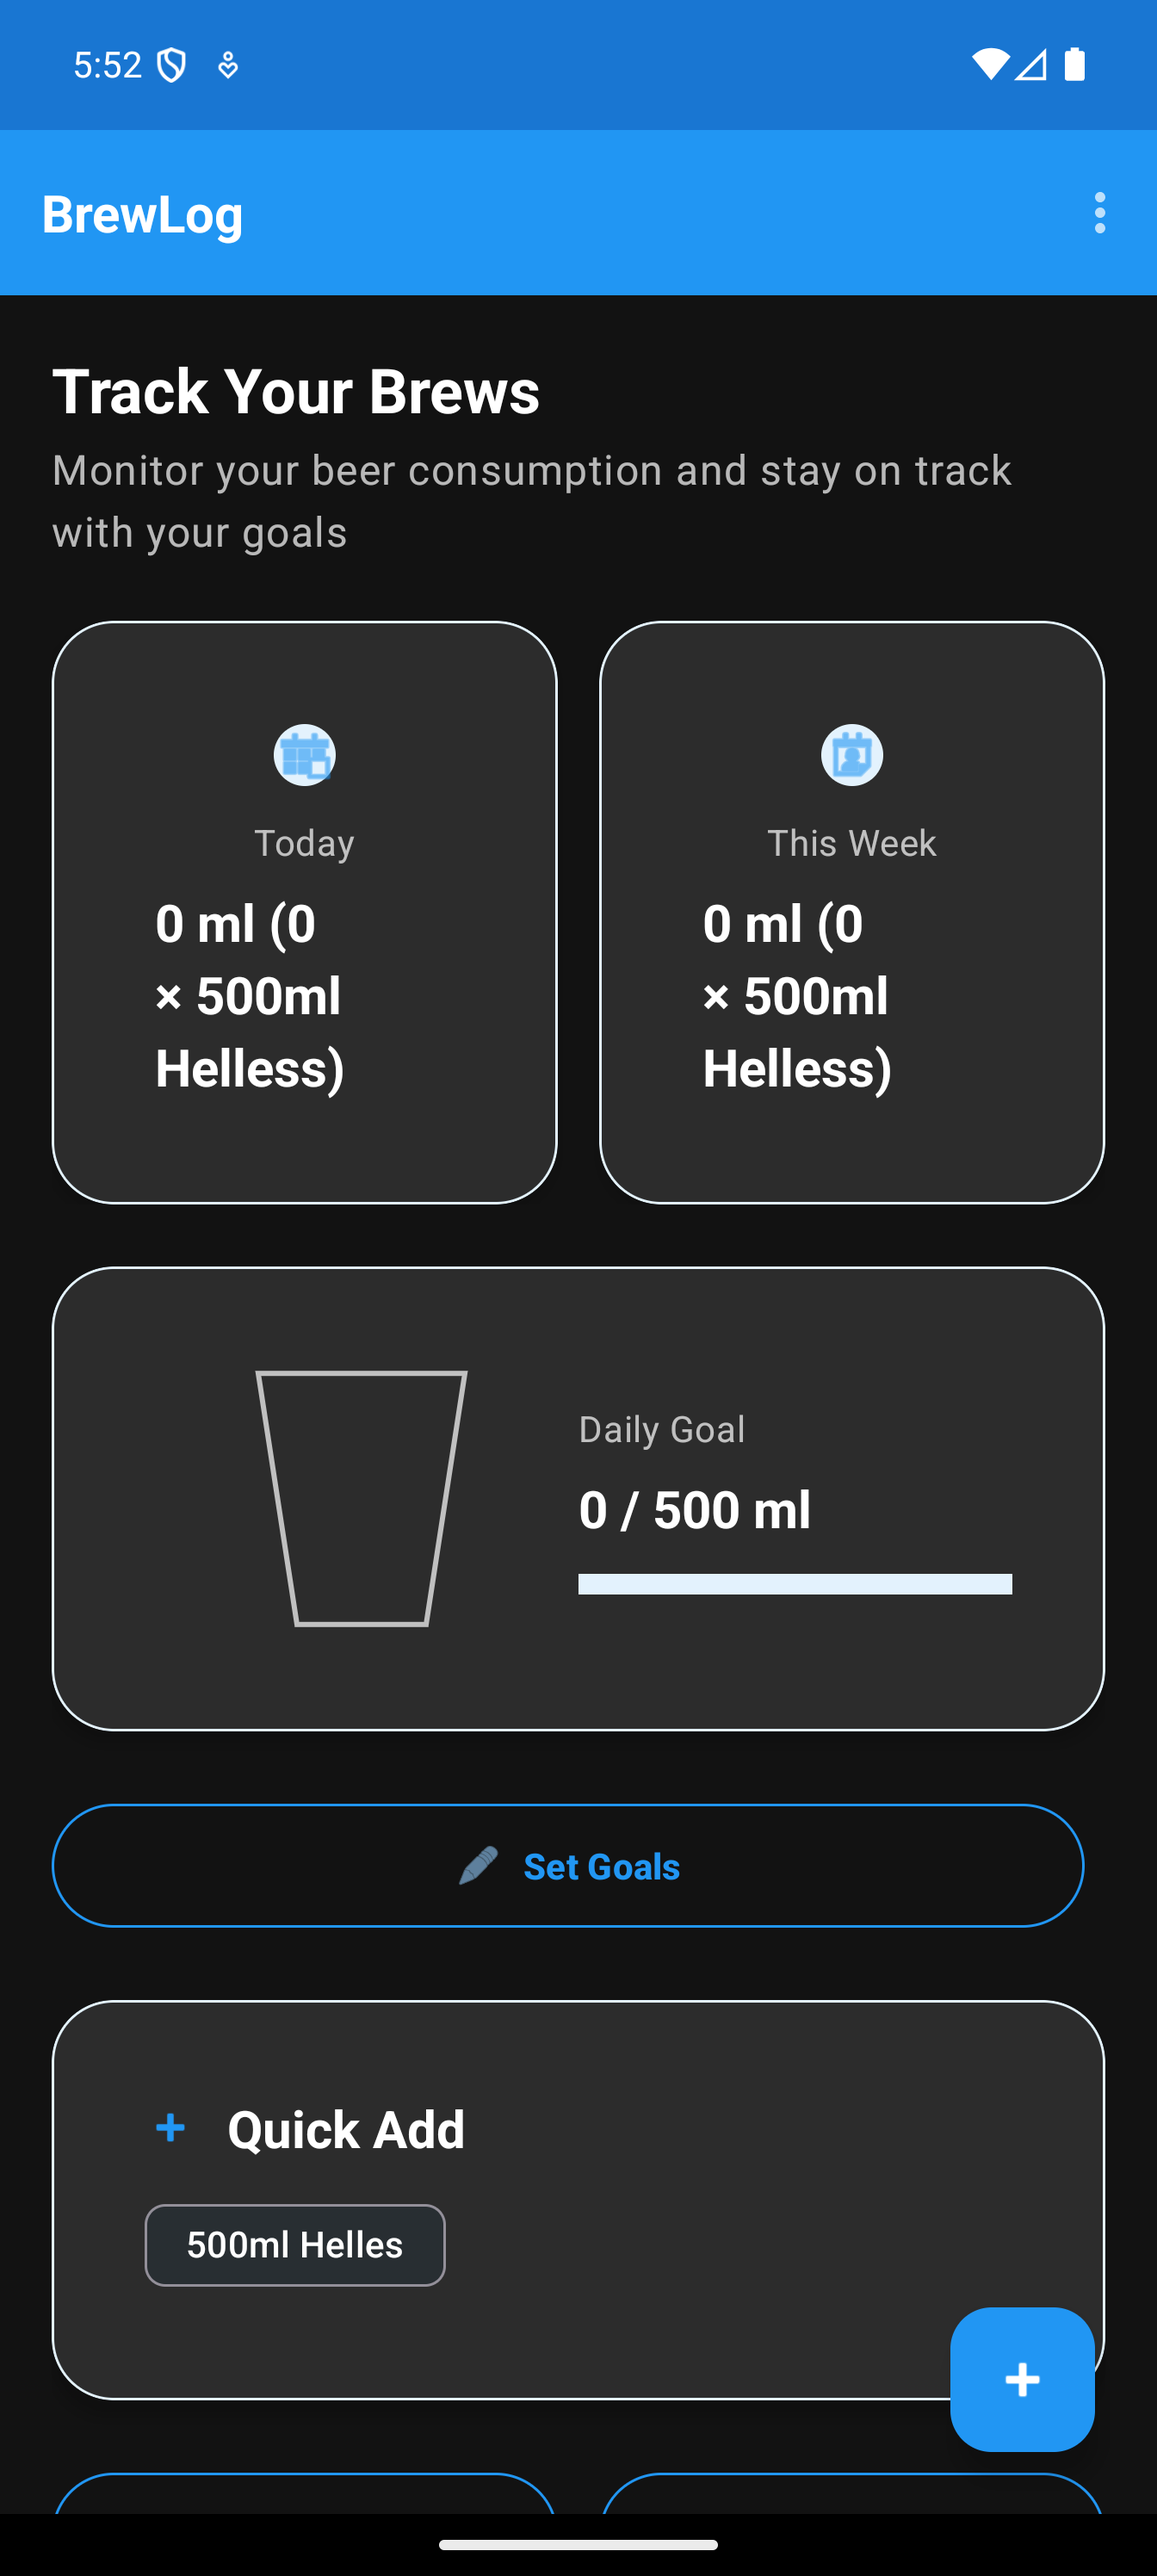
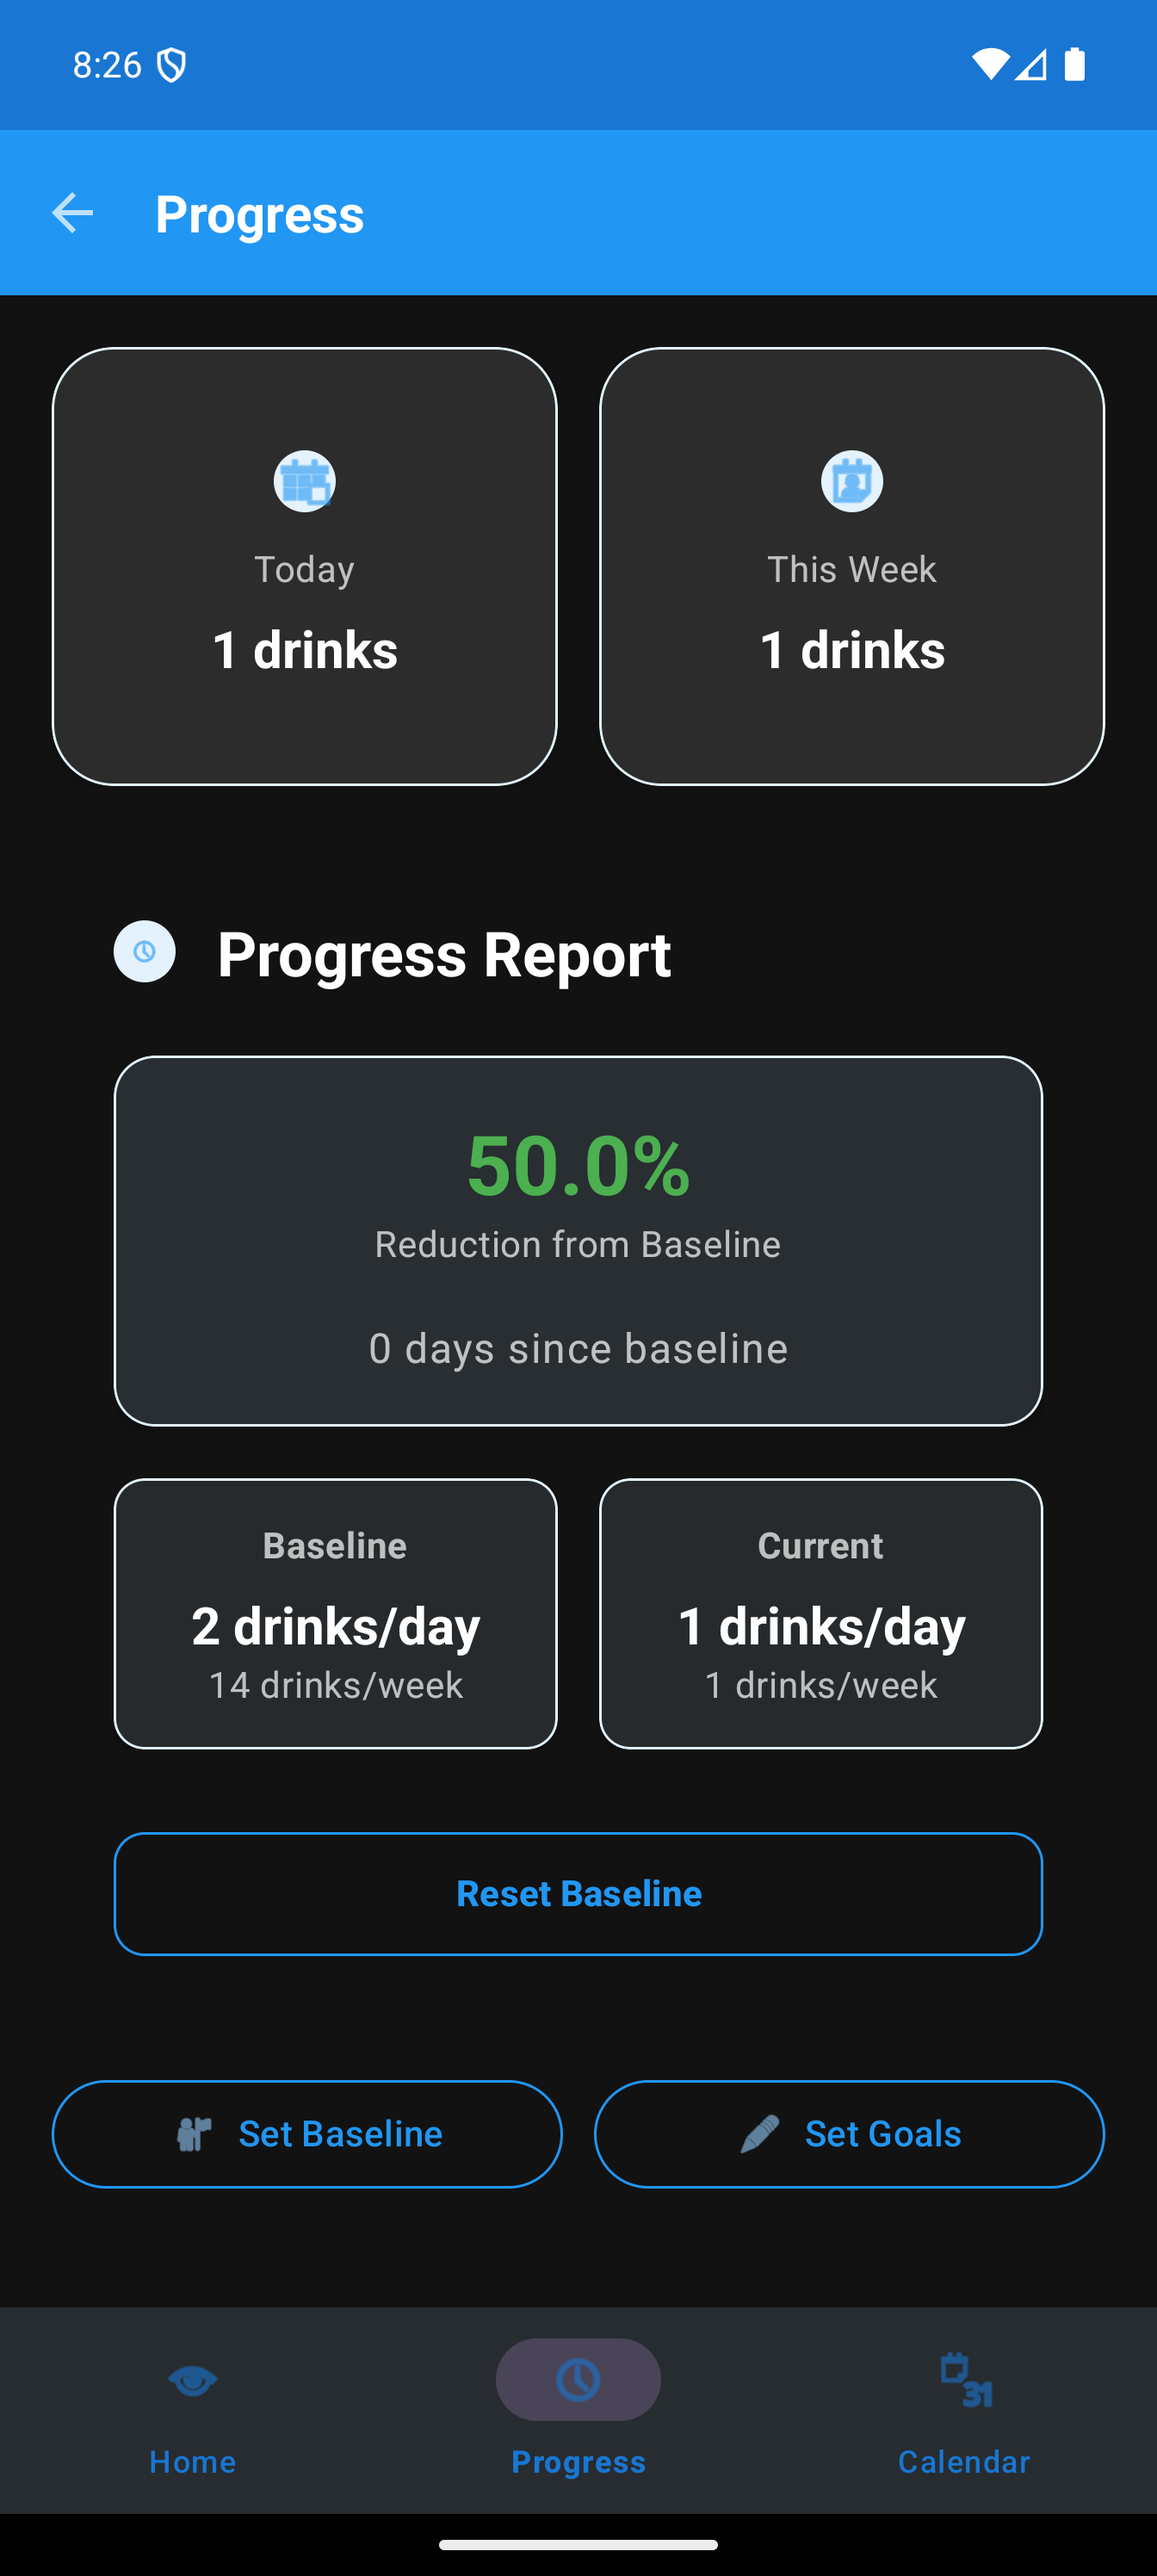
Update build script and versioning for Android app
- Modified build.sh to prefer release builds and dynamically read versionName from build.gradle for APK naming.
- Updated versionCode and versionName in build.gradle to reflect the new version.
- Removed initial tip dialog in MainActivity to enhance UI experience on smaller screens.
- Adjusted layout in dialog_setup.xml to improve vertical space usage and replaced LinearLayout with ScrollView.
- Deleted outdated screenshots to clean up the repository.

diff --git a/android/app/src/main/java/com/brewlog/android/MainActivity.kt b/android/app/src/main/java/com/brewlog/android/MainActivity.kt
@@ -306,16 +306,7 @@ class MainActivity : AppCompatActivity() {
                     showFavoriteSetupSheet()
                 }
 
-                // If goals/baseline are zero, gently prompt once
-                if ((log.getDailyGoal() <= 0.0) || (log.getCurrentBaseline() == null)) {
-                    android.app.AlertDialog.Builder(this)
-                        .setMessage("Set your daily goal and baseline to track progress.")
-                        .setPositiveButton("Set Now") { d, _ ->
-                            showSetGoalsDialog(); d.dismiss()
-                        }
-                        .setNegativeButton("Later", null)
-                        .show()
-                }
+                // Removed initial tip dialog to avoid obscuring buttons on small screens
 
             } catch (e: Exception) {
                 Toast.makeText(this, "Failed to load data", Toast.LENGTH_SHORT).show()

diff --git a/README.md b/README.md
@@ -48,7 +48,6 @@ Your data, your control:
 
 ### Screenshots
 
-![Home](screenshots/home.png)
 
 ---
 
